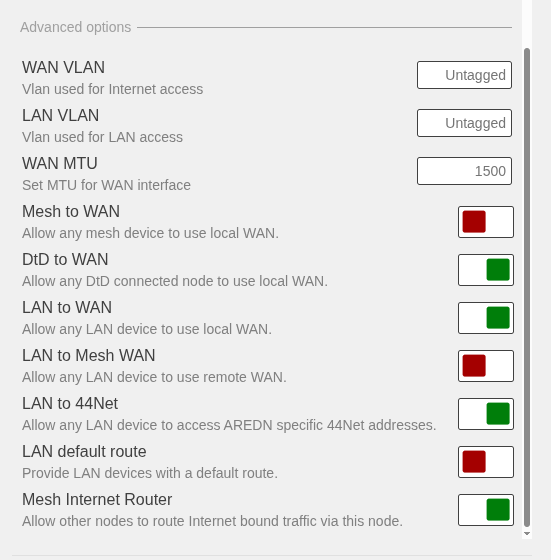
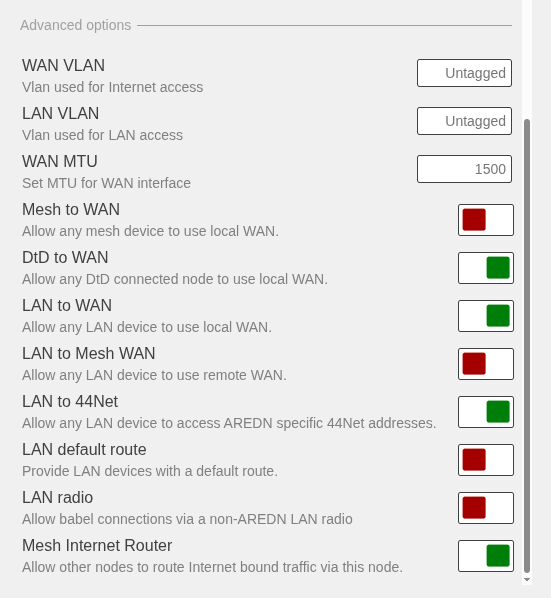
move LAN radio to network (#585)

Changed region(s): [[0.0309, 0.0911, 0.8022, 0.9714], [0.7405, 0.0911, 0.9873, 0.9714], [0.0309, 0.0304, 0.9256, 0.0607]]

diff --git a/arednGettingStarted/node_admin.rst b/arednGettingStarted/node_admin.rst
@@ -382,6 +382,11 @@ LAN default route
 
 Your node's DHCP server will provide routes to its LAN devices so they can access any available networks. A default route is required for WAN access, and that is provided automatically if **LAN to WAN** is *enabled* as discussed above. However, some LAN devices (such as certain IP cameras) may not support DHCP option 121, so they will require a default route in order to access the mesh network. Setting this value to ``enabled`` will provide a default route to those devices. If a LAN device is connected to two networks at once, such as an Ethernet connection to your node as well as a wifi connection to a local served agency network, care should be taken to understand how the device will deal with default routes for more than one network. The default value is ``disabled`` and you should not enable it unless you have a special reason to do so.
 
+LAN radio
+^^^^^^^^^
+
+This switch allows your node to pass AREDN® traffic across a non-AREDN® radio that is connected to its LAN. This simplifies using a non-AREDN® radio to extend the AREDN® network, as an alternative to using an ``xlink`` for example. A LAN port on your node must be connected to a single non-AREDN® radio.
+
 Mesh Internet Router
 ^^^^^^^^^^^^^^^^^^^^
 
@@ -465,9 +470,6 @@ WAN telnet
 
 WAN web
   This switch enables http/https access to your node on its WAN interface. Disabling this option will not prevent http/https access to your node from the Mesh and LAN interfaces.
-
-LAN radio
-  This switch allows your node to pass AREDN® traffic across a non-AREDN® radio that is connected to its LAN. This simplifies using a non-AREDN® radio to extend the AREDN® network, rather than using an ``xlink`` for example. A LAN port on your node must only be connected to a single non-AREDN® radio.
 
 Hardware Watchdog
   Hardware watchdog is a background monitor that keeps track of core node processes. If any of the processes has issues, it will reboot the node. This feature is ``disabled`` by default. Currently the set of node processes that are monitored include dnsmasq, telnetd, dropbear, uhttpd, and babeld. Hardware watchdog events are logged in the standard log on the node. Because the watchdog operates at the hardware level, the node will still reboot itself even if the kernel crashes.
